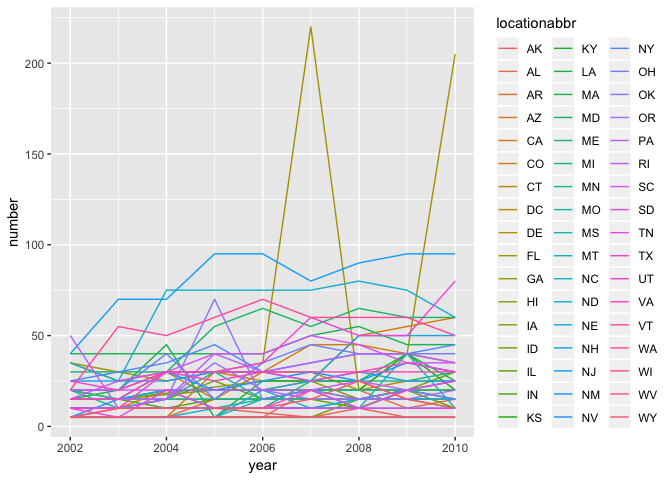
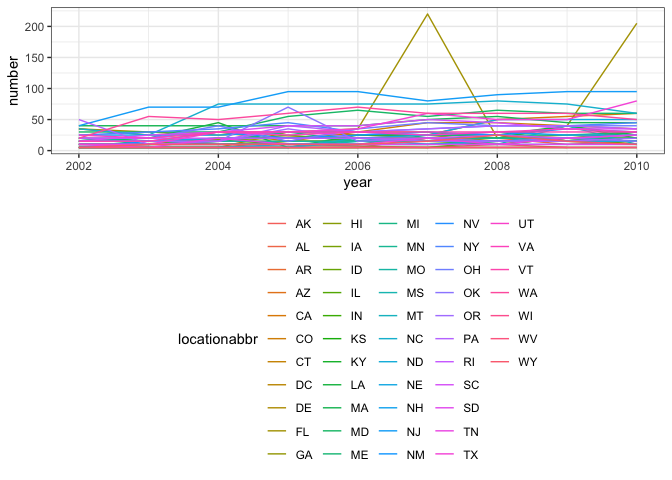
almost done

diff --git a/p8105_hw3_sc4456.md b/p8105_hw3_sc4456.md
@@ -22,8 +22,7 @@ modified_brfss =
   brfss_smart2010 %>% 
   janitor::clean_names() %>% 
   filter(topic == "Overall Health") %>% 
-  mutate(response =factor(response, levels = c("Excellent", "Very good", "Good", "Fair", "Poor"))) %>% 
- arrange(response)
+  mutate(response =factor(response, levels = c("Excellent", "Very good", "Good", "Fair", "Poor"))) %>% arrange(response)
 ```
 
 ### 1
@@ -45,16 +44,21 @@ modified_brfss %>%
     ## 2 FL                7
     ## 3 NC                7
 
--   In 2002, state CT, FL, NC were observed at 7 locations. \#\#\#2
+-   In 2002, state CT, FL, NC were observed at 7 locations.
+
+### 2
 
 ``` r
 modified_brfss %>% 
   group_by(year, locationabbr) %>% 
   summarise(number = n()) %>% 
-  ggplot(aes(x = year, y = number, color = locationabbr)) + geom_line()
+  ggplot(aes(x = year, y = number, color = locationabbr)) + geom_line()+
+  theme_bw() + theme(legend.position = "bottom")
 ```
 
-![](p8105_hw3_sc4456_files/figure-markdown_github/unnamed-chunk-3-1.png) \#\#\#3
+![](p8105_hw3_sc4456_files/figure-markdown_github/unnamed-chunk-3-1.png)
+
+### 3
 
 ``` r
 modified_brfss %>% 
@@ -80,38 +84,187 @@ modified_brfss %>%
 ``` r
 tidy_response_data =
 modified_brfss %>% 
-select(year, locationabbr, locationdesc, response, sample_size) %>% 
- spread(key = response, value = sample_size) %>% 
-  janitor::clean_names() %>% 
-  mutate(excellent = excellent / (excellent + very_good + good + fair + poor), 
-         very_good = very_good / (excellent + very_good + good + fair + poor), 
-         good = good / (excellent + very_good + good + fair + poor),
-         fair = fair / (excellent + very_good + good + fair + poor),
-         poor = poor / (excellent + very_good + good + fair + poor)
-         ) %>% 
-# replace with proportion of response category
-  group_by(year, locationabbr) %>% 
-  summarise(mean_excellent_proportion = mean(excellent), 
-            mean_very_good_proportion = mean(very_good),
-            mean_good_proportion = mean(good), 
-            mean_fair_proportion = mean(fair), 
-            mean_poor_proportion = mean(poor))  
+select(year, locationabbr, locationdesc, response, data_value) %>% 
+group_by(locationabbr, year, response) %>% 
+  summarise(average_proportion = mean(data_value, na.rm = TRUE)) 
   head(tidy_response_data)
 ```
 
-    ## # A tibble: 6 x 7
-    ## # Groups:   year [1]
-    ##    year locationabbr mean_excellent_… mean_very_good_… mean_good_propo…
-    ##   <int> <chr>                   <dbl>            <dbl>            <dbl>
-    ## 1  2002 AK                      0.279            0.456            0.635
-    ## 2  2002 AL                      0.187            0.355            0.646
-    ## 3  2002 AR                      0.237            0.357            0.620
-    ## 4  2002 AZ                      0.238            0.439            0.680
-    ## 5  2002 CA                      0.250            0.430            0.623
-    ## 6  2002 CO                      0.227            0.446            0.680
-    ## # ... with 2 more variables: mean_fair_proportion <dbl>,
-    ## #   mean_poor_proportion <dbl>
+    ## # A tibble: 6 x 4
+    ## # Groups:   locationabbr, year [2]
+    ##   locationabbr  year response  average_proportion
+    ##   <chr>        <int> <fct>                  <dbl>
+    ## 1 AK            2002 Excellent               27.9
+    ## 2 AK            2002 Very good               33.7
+    ## 3 AK            2002 Good                    23.8
+    ## 4 AK            2002 Fair                     8.6
+    ## 5 AK            2002 Poor                     5.9
+    ## 6 AK            2003 Excellent               24.8
 
 ``` r
-  Excellent_plot = ggplot(tidy_response_data, aes(x = year, y = mean_excellent_proportion, color = locationabbr)) + geom_line()
+  ggplot(tidy_response_data, aes(x = year, y = average_proportion, color = locationabbr)) + geom_point() + facet_grid(~response) + labs(y = "Average Proportion %")
 ```
+
+![](p8105_hw3_sc4456_files/figure-markdown_github/unnamed-chunk-5-1.png)
+
+Problem 2
+=========
+
+``` r
+library(p8105.datasets)
+instacart = data.frame(instacart) %>%
+  janitor::clean_names() 
+instacart%>% 
+  distinct(aisle_id) %>% 
+  nrow()
+```
+
+    ## [1] 134
+
+``` r
+# getting the number of distinct aisles.
+ instacart %>% 
+  select(aisle) %>% 
+  group_by(aisle) %>% 
+  summarise(number = n()) %>% 
+  # the number of orders from each aisles 
+  mutate(ranking = min_rank(desc(number))) %>% 
+  # ranking the the data with total order number from the highest to lowest
+  filter(ranking == 1)
+```
+
+    ## # A tibble: 1 x 3
+    ##   aisle            number ranking
+    ##   <chr>             <int>   <int>
+    ## 1 fresh vegetables 150609       1
+
+``` r
+  # obtaining the aisle which are the most items ordered from.
+```
+
+Description: This dataset contains 15 variable and 1384617 observation. The structure is data frame. The key variables include product\_id, product\_name, aisle and others. For exmaple, \_\_? \#\#\#1 There are 134 aisles and the fresh vegetables aisle is the most items ordered from fresh vegetables.
+
+### 2 plot
+
+``` r
+library(ggplot2)
+ordered_instacart = instacart %>% 
+  group_by(aisle) %>% 
+  summarise(number = n()) %>% 
+  as.data.frame() %>% 
+  mutate(aisle = reorder(aisle, desc(number))) 
+  ggplot(ordered_instacart, aes(x = aisle, y = number)) + geom_point() + theme(axis.text.x = element_text(angle = 90, hjust = 1))
+```
+
+![](p8105_hw3_sc4456_files/figure-markdown_github/unnamed-chunk-7-1.png)
+
+### 3
+
+``` r
+instacart %>% 
+  filter(aisle == "baking ingredients" | aisle == "dog food care" | aisle =="packaged vegetables fruits" ) %>% 
+  select(aisle, product_name) %>% 
+  group_by(aisle, product_name) %>% 
+  summarise(number = n()) %>% 
+  mutate(ranking = min_rank(desc(number))) %>% 
+  # ranking from the most selled items number to the least within each aisle
+  filter(ranking == 1) %>% 
+# get the most popular prodcut for the interested aisles
+  knitr::kable()
+```
+
+| aisle                      | product\_name                                 |  number|  ranking|
+|:---------------------------|:----------------------------------------------|-------:|--------:|
+| baking ingredients         | Light Brown Sugar                             |     499|        1|
+| dog food care              | Snack Sticks Chicken & Rice Recipe Dog Treats |      30|        1|
+| packaged vegetables fruits | Organic Baby Spinach                          |    9784|        1|
+
+### 4
+
+``` r
+instacart %>% 
+  filter(product_name == "Pink Lady Apples"|product_name == "Coffee Ice Cream") %>% 
+  select(product_name, order_hour_of_day, order_dow) %>% 
+  # manipulate data
+  group_by(product_name, order_dow) %>% 
+  summarise(mean_hour = mean(order_hour_of_day)) %>% 
+  spread(key = order_dow, value = mean_hour) %>% 
+  knitr::kable()
+```
+
+| product\_name    |         0|         1|         2|         3|         4|         5|         6|
+|:-----------------|---------:|---------:|---------:|---------:|---------:|---------:|---------:|
+| Coffee Ice Cream |  13.77419|  14.31579|  15.38095|  15.31818|  15.21739|  12.26316|  13.83333|
+| Pink Lady Apples |  13.44118|  11.36000|  11.70213|  14.25000|  11.55172|  12.78431|  11.93750|
+| description: --- |          |          |          |          |          |          |          |
+
+Problem 3
+=========
+
+### 1
+
+``` r
+modified_ny_noaa = ny_noaa%>% 
+  janitor::clean_names() %>% 
+  separate(date, into = c("year", "month", "day"), sep = "-") %>% 
+  janitor::clean_names() 
+
+# units?
+modified_ny_noaa%>% 
+  group_by(snow) %>% 
+  summarise(number = n()) %>% 
+  arrange(desc(number))
+```
+
+    ## # A tibble: 282 x 2
+    ##     snow  number
+    ##    <int>   <int>
+    ##  1     0 2008508
+    ##  2    NA  381221
+    ##  3    25   31022
+    ##  4    13   23095
+    ##  5    51   18274
+    ##  6    76   10173
+    ##  7     8    9962
+    ##  8     5    9748
+    ##  9    38    9197
+    ## 10     3    8790
+    ## # ... with 272 more rows
+
+``` r
+# arrange the number of occuring snowfull value from the greatest to lowest and 0 is the most commonly occured
+```
+
+The Most commonly observed snowfall value is 0.
+
+### 2
+
+``` r
+modified_ny_noaa%>% 
+  mutate(month = as.numeric(month), tmax = as.numeric(tmax), tmin = as.numeric(tmin), mean_tem = (tmax + tmin)/2) %>% 
+  filter(month == 1| month == 7) %>% 
+  filter(!is.na(mean_tem)) %>% 
+  ggplot(aes(x = year, y = mean_tem)) + geom_boxplot() + facet_grid(~month) 
+```
+
+![](p8105_hw3_sc4456_files/figure-markdown_github/unnamed-chunk-11-1.png) According the the plot, July month generally has much higher temperature compared to January which makes sense. There are outliers which presents the abnormally high temperature at January and abnormally low temperature at July. There are also outliers within month for each year which suggest the variability of temperature within the same month.
+
+### 3
+
+``` r
+modified_ny_noaa%>% 
+  mutate(month = as.numeric(month), tmax = as.numeric(tmax), tmin = as.numeric(tmin)) %>%
+  filter(!is.na(tmax) & !is.na(tmin)) %>% 
+  ggplot(aes(x = tmax, y = tmin, color = month)) + geom_hex() 
+```
+
+![](p8105_hw3_sc4456_files/figure-markdown_github/unnamed-chunk-12-1.png)
+
+``` r
+modified_ny_noaa%>% 
+  mutate(month = as.numeric(month), tmax = as.numeric(tmax), tmin = as.numeric(tmin)) %>%
+  filter(snow > 0 & snow < 100) %>% 
+  ggplot(aes(x = year, y = snow, color = month)) + geom_boxplot()  
+```
+
+![](p8105_hw3_sc4456_files/figure-markdown_github/unnamed-chunk-12-2.png)
